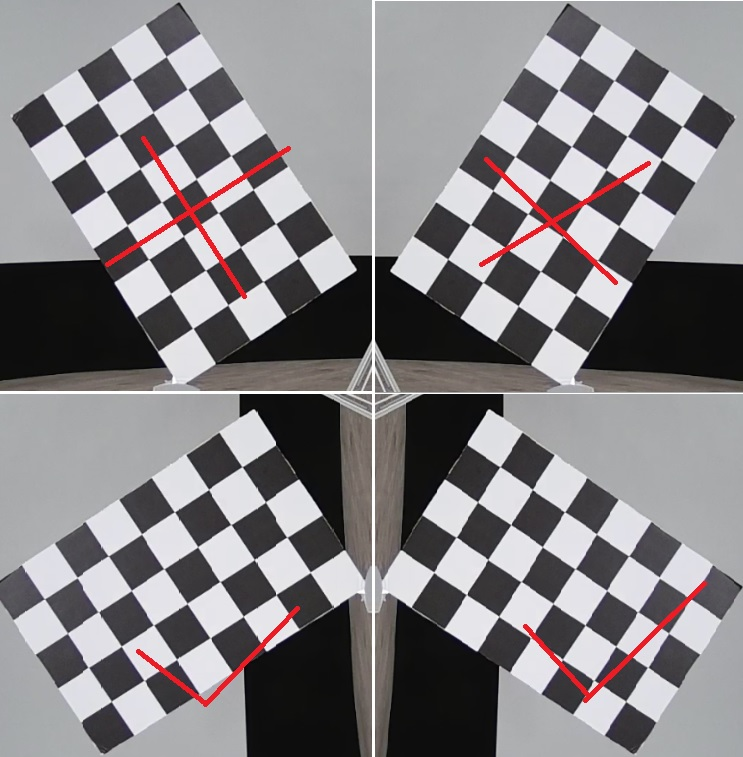
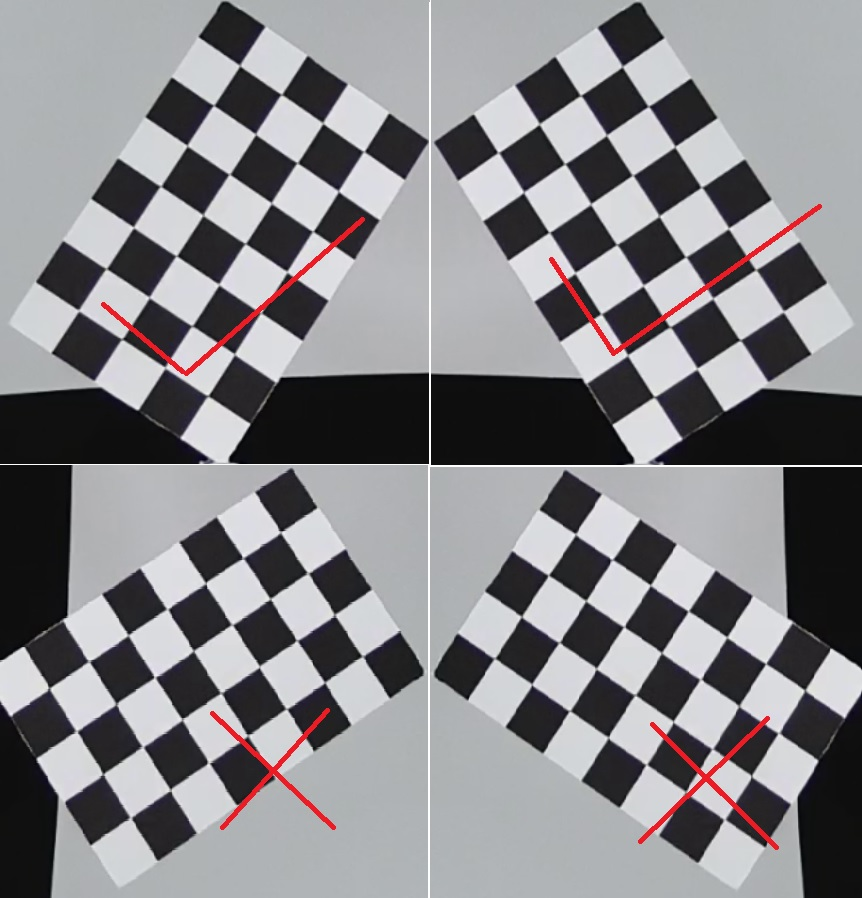
update readme

diff --git a/README.md b/README.md
@@ -16,7 +16,7 @@ Doawload this code and perform the following steps.
 * **Base requirements**
 1. All images must be undistorted. This matter is of the utmost importance.
 2. Calibration board requires black and white checkerboard lattice and one side is odd, one side is even.
-3. The short edge of the chessboard should be at the top of the image. The edges of the checkerboard cannot be parallel to the edges of the image. Pose of chessboard in image must look like second row shown below (first row is wrong pose):
+3. The short edge of the chessboard should be at the top of the image. The edges of the checkerboard cannot be parallel to the edges of the image. Pose of chessboard in image must look like fisrt row shown below (second row is wrong pose):
 <div align=center><img src="https://github.com/Aaron20127/Camera-lidar-joint-calibration/blob/master/readme/chessboard.jpg" width="350" height="350" /></div>  
 
 4. The short edge of the chessboard of pointcloud should be at the top of the z-axis direction  of lidar. The edges of the checkerboard of pointcloud cannot be parallel to the z-axis of lidar.
